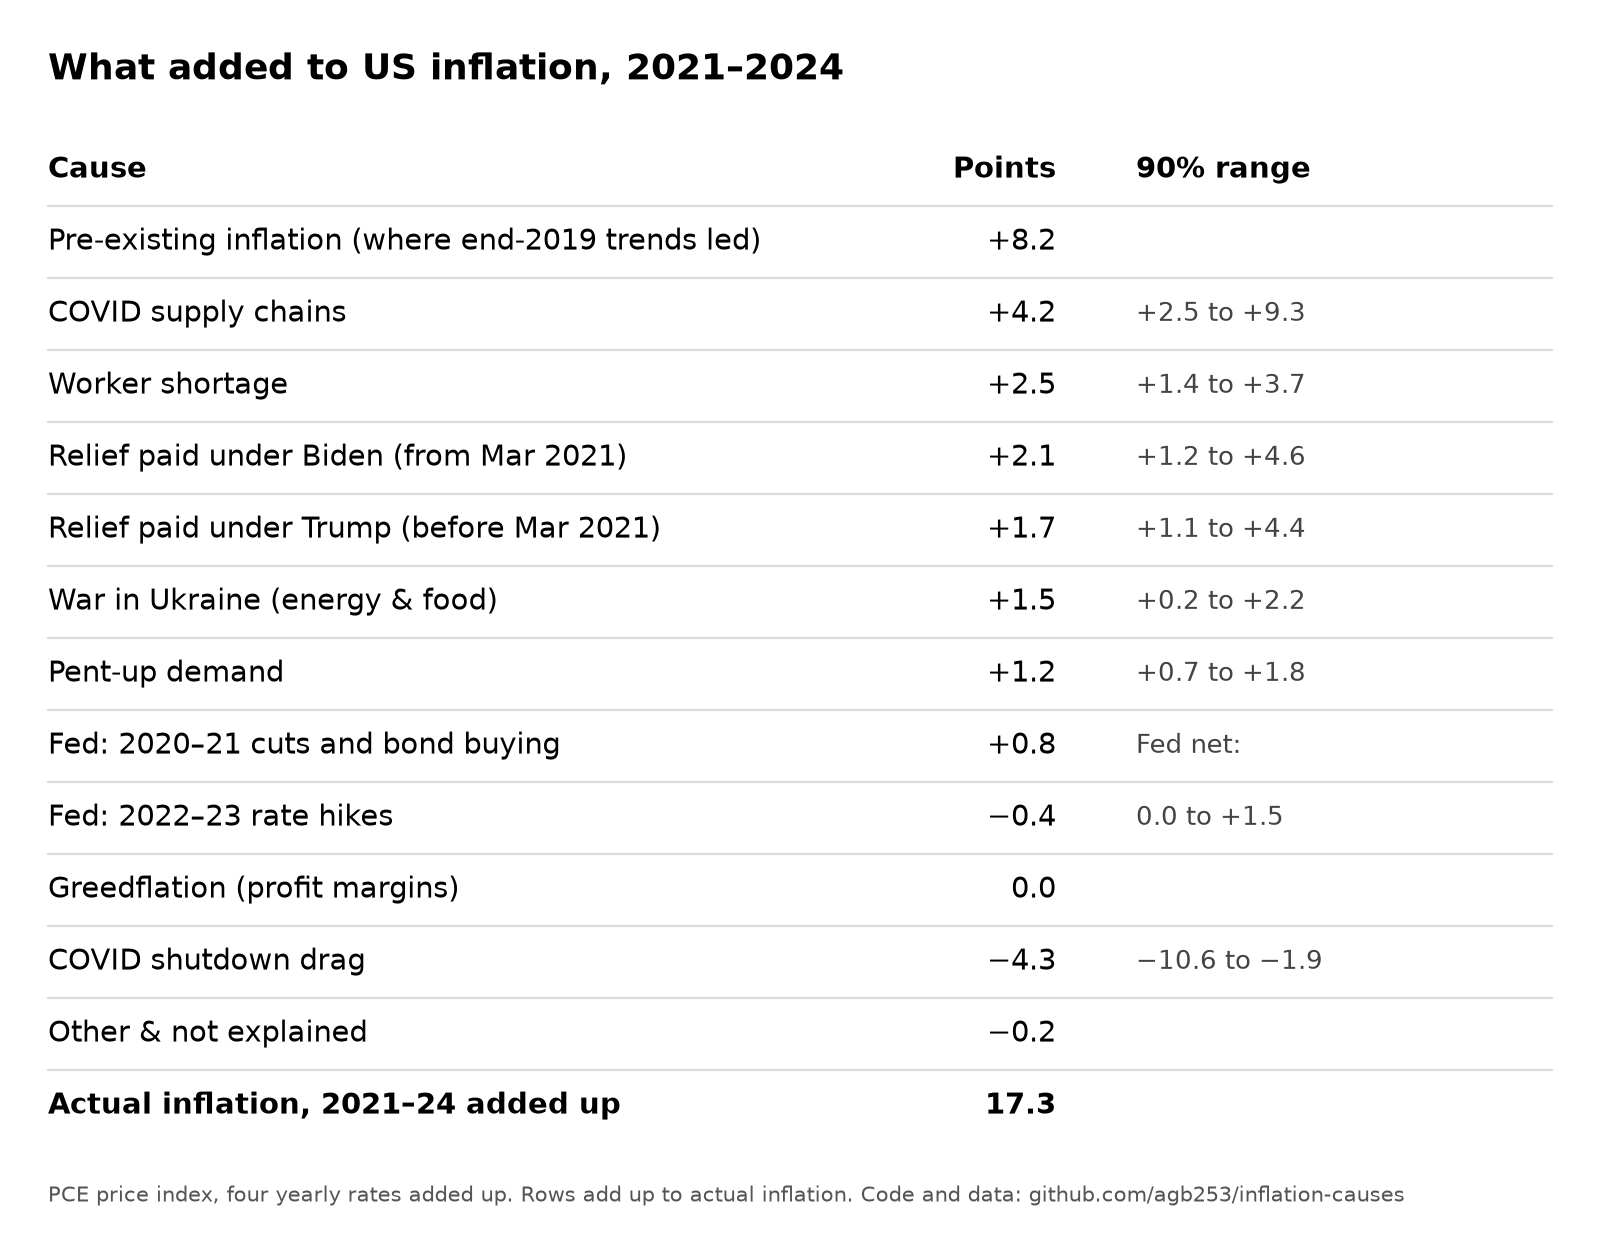
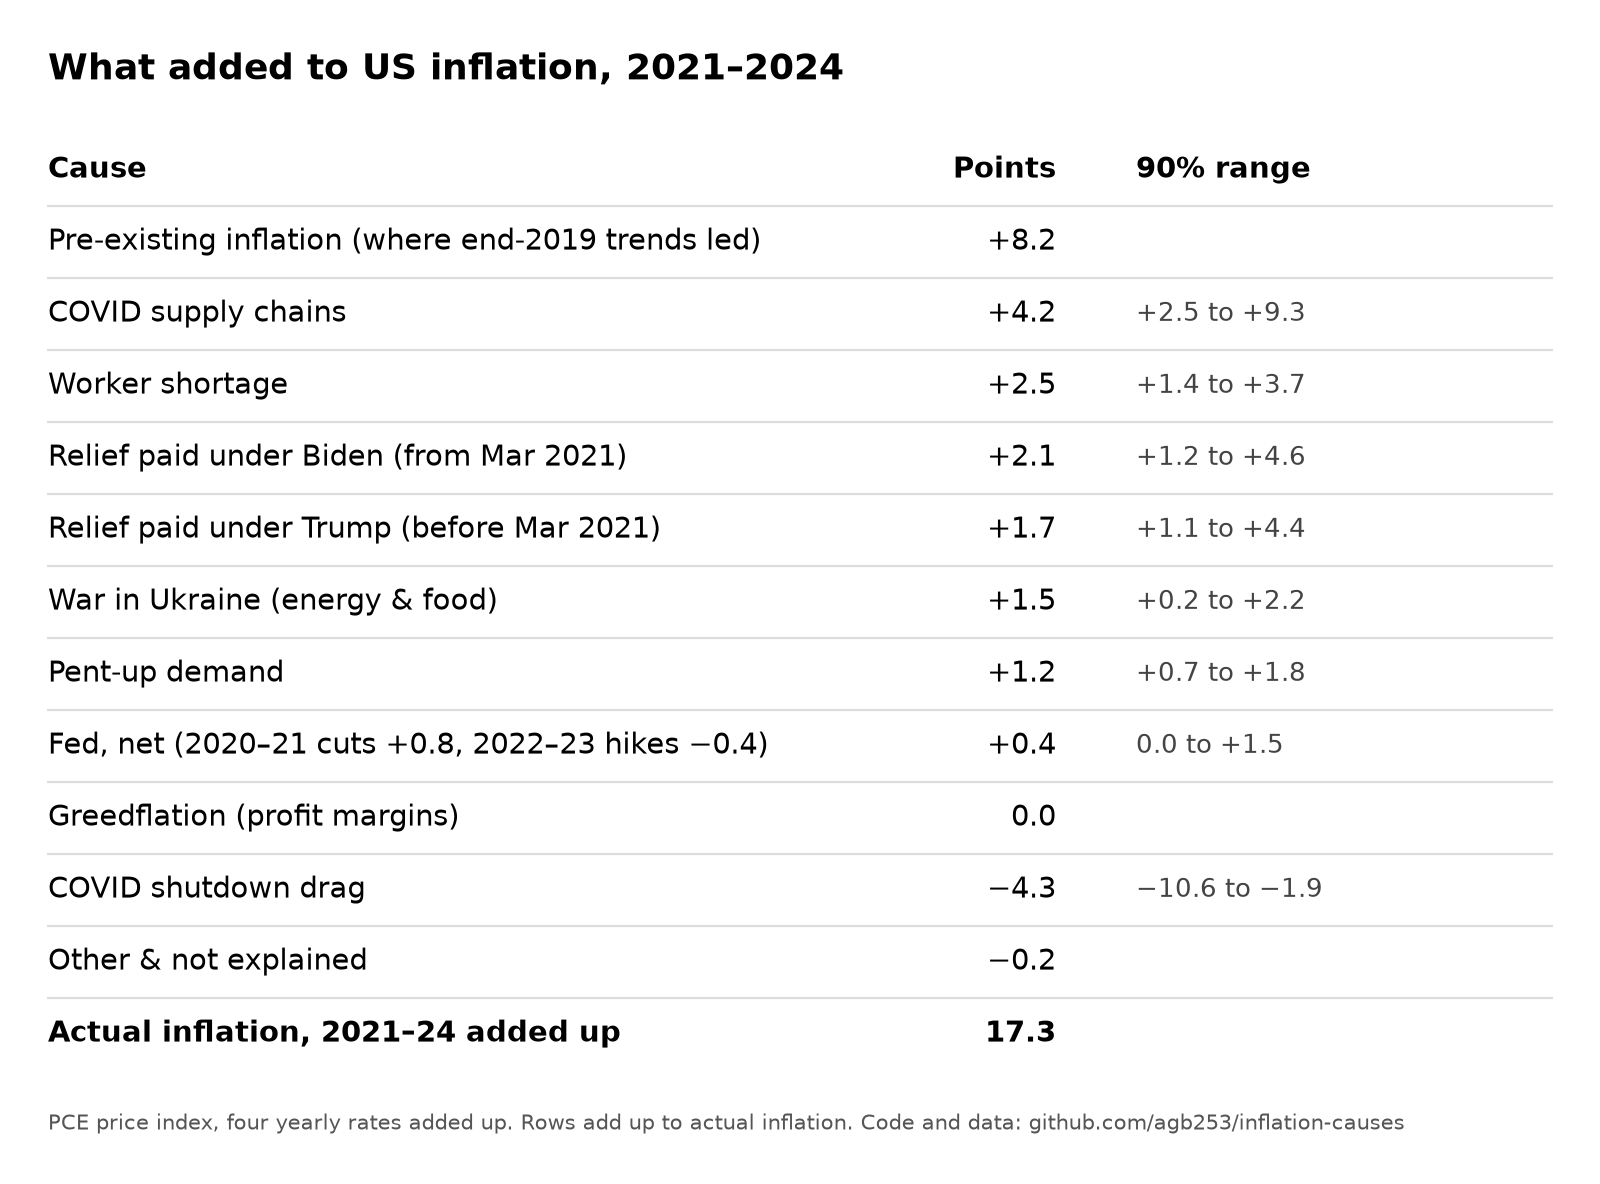
Fed rows: show the range against the net Fed effect it belongs to

Changed region(s): [[0.0312, 0.125, 0.9688, 0.9062], [0.0312, 0.9375, 0.875, 0.9688], [0.0312, 0.0312, 0.5312, 0.0938]]

diff --git a/docs/index.html b/docs/index.html
@@ -99,8 +99,8 @@ ol.eqs b { font-family: var(--mono); font-weight: 400; }
 <tr><th scope=row>Relief paid under Biden (payments from March 2021)</th><td>0.00<span class="rg">+0.0 to +0.0</span></td><td>0.00<span class="rg">+0.0 to +0.0</span></td><td>0.00<span class="rg">+0.0 to +0.0</span></td><td>0.00<span class="rg">+0.0 to +0.0</span></td><td>0.00<span class="rg">+0.0 to +0.0</span></td><td>+0.07<span class="rg">+0.0 to +0.2</span></td><td>+0.27<span class="rg">+0.1 to +0.6</span></td><td>+0.54<span class="rg">+0.2 to +1.1</span></td><td>+0.74<span class="rg">+0.3 to +1.4</span></td><td>+0.79<span class="rg">+0.3 to +1.4</span></td><td>+0.74<span class="rg">+0.2 to +1.3</span></td><td>+0.65<span class="rg">+0.2 to +1.2</span></td><td>+0.58<span class="rg">+0.2 to +1.2</span></td><td>+0.58<span class="rg">+0.3 to +1.3</span></td><td>+0.54<span class="rg">+0.3 to +1.3</span></td><td>+0.48<span class="rg">+0.3 to +1.3</span></td><td>+0.44<span class="rg">+0.3 to +1.3</span></td><td>+0.43<span class="rg">+0.3 to +1.3</span></td><td>+0.42<span class="rg">+0.3 to +1.3</span></td><td>+0.39<span class="rg">+0.3 to +1.3</span></td><td><strong>+2.1</strong></td><td>+1.2 to +4.6</td><td>2, 3, 4, 13</td><td>E3, E4, E8, E10–E12</td></tr>
 <tr><th scope=row>Relief paid under Trump (payments before March 2021)</th><td>0.00<span class="rg">+0.0 to +0.0</span></td><td>0.00<span class="rg">+0.0 to +0.0</span></td><td>+0.10<span class="rg">+0.0 to +0.3</span></td><td>+0.30<span class="rg">+0.1 to +0.7</span></td><td>+0.50<span class="rg">+0.2 to +1.0</span></td><td>+0.66<span class="rg">+0.3 to +1.3</span></td><td>+0.69<span class="rg">+0.3 to +1.3</span></td><td>+0.64<span class="rg">+0.2 to +1.2</span></td><td>+0.53<span class="rg">+0.2 to +1.1</span></td><td>+0.47<span class="rg">+0.2 to +1.1</span></td><td>+0.47<span class="rg">+0.3 to +1.2</span></td><td>+0.41<span class="rg">+0.3 to +1.2</span></td><td>+0.39<span class="rg">+0.3 to +1.3</span></td><td>+0.39<span class="rg">+0.3 to +1.3</span></td><td>+0.35<span class="rg">+0.3 to +1.2</span></td><td>+0.34<span class="rg">+0.3 to +1.2</span></td><td>+0.33<span class="rg">+0.2 to +1.2</span></td><td>+0.30<span class="rg">+0.2 to +1.1</span></td><td>+0.29<span class="rg">+0.2 to +1.1</span></td><td>+0.28<span class="rg">+0.2 to +1.0</span></td><td><strong>+1.7</strong></td><td>+1.1 to +4.4</td><td>2, 3, 4, 13</td><td>E3, E4, E8, E10–E12</td></tr>
 <tr><th scope=row>Pent-up demand</th><td>0.00<span class="rg">+0.0 to +0.0</span></td><td>0.00<span class="rg">+0.0 to +0.0</span></td><td>0.00<span class="rg">+0.0 to +0.0</span></td><td>0.00<span class="rg">+0.0 to +0.0</span></td><td>0.00<span class="rg">+0.0 to +0.0</span></td><td>0.00<span class="rg">+0.0 to +0.0</span></td><td>+0.07<span class="rg">+0.0 to +0.1</span></td><td>+0.20<span class="rg">+0.1 to +0.3</span></td><td>+0.31<span class="rg">+0.1 to +0.4</span></td><td>+0.39<span class="rg">+0.1 to +0.5</span></td><td>+0.40<span class="rg">+0.1 to +0.5</span></td><td>+0.40<span class="rg">+0.1 to +0.5</span></td><td>+0.39<span class="rg">+0.1 to +0.5</span></td><td>+0.42<span class="rg">+0.2 to +0.6</span></td><td>+0.46<span class="rg">+0.2 to +0.6</span></td><td>+0.44<span class="rg">+0.2 to +0.7</span></td><td>+0.38<span class="rg">+0.2 to +0.6</span></td><td>+0.28<span class="rg">+0.2 to +0.6</span></td><td>+0.20<span class="rg">+0.1 to +0.6</span></td><td>+0.17<span class="rg">+0.1 to +0.6</span></td><td><strong>+1.2</strong></td><td>+0.7 to +1.8</td><td>1, 3, 5, 6</td><td>E5, E4, E8, E10–E12</td></tr>
-<tr><th scope=row>Fed 2020–21 rate cuts + bond buying</th><td>0.00</td><td>0.00</td><td>0.00</td><td>0.00</td><td>0.00</td><td>+0.01</td><td>+0.02</td><td>+0.05</td><td>+0.09</td><td>+0.14</td><td>+0.19</td><td>+0.21</td><td>+0.22</td><td>+0.22</td><td>+0.24</td><td>+0.28</td><td>+0.31</td><td>+0.32</td><td>+0.32</td><td>+0.30</td><td><strong>+0.8</strong></td><td>net of both: −0.0 to +1.5</td><td>8, 13</td><td>E6, E8, E10–E12</td></tr>
-<tr><th scope=row>Fed 2022–23 rate hikes</th><td>0.00</td><td>0.00</td><td>0.00</td><td>0.00</td><td>0.00</td><td>0.00</td><td>0.00</td><td>0.00</td><td>0.00</td><td>0.00</td><td>+0.01</td><td>+0.02</td><td>+0.02</td><td>−0.01</td><td>−0.06</td><td>−0.12</td><td>−0.17</td><td>−0.22</td><td>−0.25</td><td>−0.29</td><td><strong>−0.4</strong></td><td>net of both: −0.0 to +1.5</td><td>8, 13</td><td>E6, E8, E10–E12</td></tr>
+<tr><th scope=row>Fed 2020–21 rate cuts + bond buying</th><td>0.00</td><td>0.00</td><td>0.00</td><td>0.00</td><td>0.00</td><td>+0.01</td><td>+0.02</td><td>+0.05</td><td>+0.09</td><td>+0.14</td><td>+0.19</td><td>+0.21</td><td>+0.22</td><td>+0.22</td><td>+0.24</td><td>+0.28</td><td>+0.31</td><td>+0.32</td><td>+0.32</td><td>+0.30</td><td><strong>+0.8</strong></td><td>range of the net +0.4 (both Fed lines): 0.0 to +1.5</td><td>8, 13</td><td>E6, E8, E10–E12</td></tr>
+<tr><th scope=row>Fed 2022–23 rate hikes</th><td>0.00</td><td>0.00</td><td>0.00</td><td>0.00</td><td>0.00</td><td>0.00</td><td>0.00</td><td>0.00</td><td>0.00</td><td>0.00</td><td>+0.01</td><td>+0.02</td><td>+0.02</td><td>−0.01</td><td>−0.06</td><td>−0.12</td><td>−0.17</td><td>−0.22</td><td>−0.25</td><td>−0.29</td><td><strong>−0.4</strong></td><td>range of the net +0.4 (both Fed lines): 0.0 to +1.5</td><td>8, 13</td><td>E6, E8, E10–E12</td></tr>
 <tr><th scope=row>Greedflation (profit margins)</th><td>−0.01</td><td>+0.05</td><td>+0.06</td><td>0.00</td><td>0.00</td><td>−0.04</td><td>−0.08</td><td>−0.01</td><td>+0.02</td><td>0.00</td><td>+0.03</td><td>−0.01</td><td>+0.01</td><td>−0.02</td><td>−0.03</td><td>−0.01</td><td>−0.07</td><td>−0.02</td><td>0.00</td><td>0.00</td><td><strong>−0.0</strong></td><td></td><td>1</td><td>E13, E11</td></tr>
 <tr><th scope=row>COVID shutdown drag (incl. 2020–21 oil & food crash and rebound)</th><td>−0.24<span class="rg">−0.3 to −0.2</span></td><td>−1.29<span class="rg">−1.5 to −1.1</span></td><td>−1.75<span class="rg">−2.2 to −1.3</span></td><td>−2.15<span class="rg">−2.7 to −1.4</span></td><td>−1.86<span class="rg">−2.6 to −0.9</span></td><td>−0.72<span class="rg">−1.6 to +0.4</span></td><td>−0.62<span class="rg">−1.6 to +0.6</span></td><td>−0.22<span class="rg">−1.3 to +0.9</span></td><td>−0.82<span class="rg">−2.1 to +0.3</span></td><td>−1.56<span class="rg">−3.0 to −0.4</span></td><td>−1.61<span class="rg">−3.1 to −0.5</span></td><td>−1.88<span class="rg">−3.6 to −0.9</span></td><td>−1.86<span class="rg">−3.7 to −1.1</span></td><td>−1.67<span class="rg">−3.6 to −0.9</span></td><td>−1.31<span class="rg">−3.4 to −0.7</span></td><td>−1.09<span class="rg">−3.2 to −0.6</span></td><td>−0.96<span class="rg">−3.1 to −0.6</span></td><td>−0.89<span class="rg">−3.0 to −0.5</span></td><td>−1.01<span class="rg">−3.1 to −0.7</span></td><td>−1.15<span class="rg">−3.1 to −0.7</span></td><td><strong>−4.3</strong></td><td>−10.6 to −1.9</td><td>7, 1, 13</td><td>E7, E8, E10–E12</td></tr>
 <tr><th scope=row>Other & not explained</th><td>+0.15</td><td>+0.23</td><td>+0.46</td><td>+0.42</td><td>+0.47</td><td>+0.85</td><td>+1.01</td><td>+0.94</td><td>+0.97</td><td>+0.88</td><td>+0.67</td><td>+0.75</td><td>+0.72</td><td>+0.27</td><td>−0.42</td><td>−1.02</td><td>−1.16</td><td>−1.24</td><td>−1.19</td><td>−0.83</td><td><strong>−0.2</strong></td><td></td><td>—</td><td>E15</td></tr>
